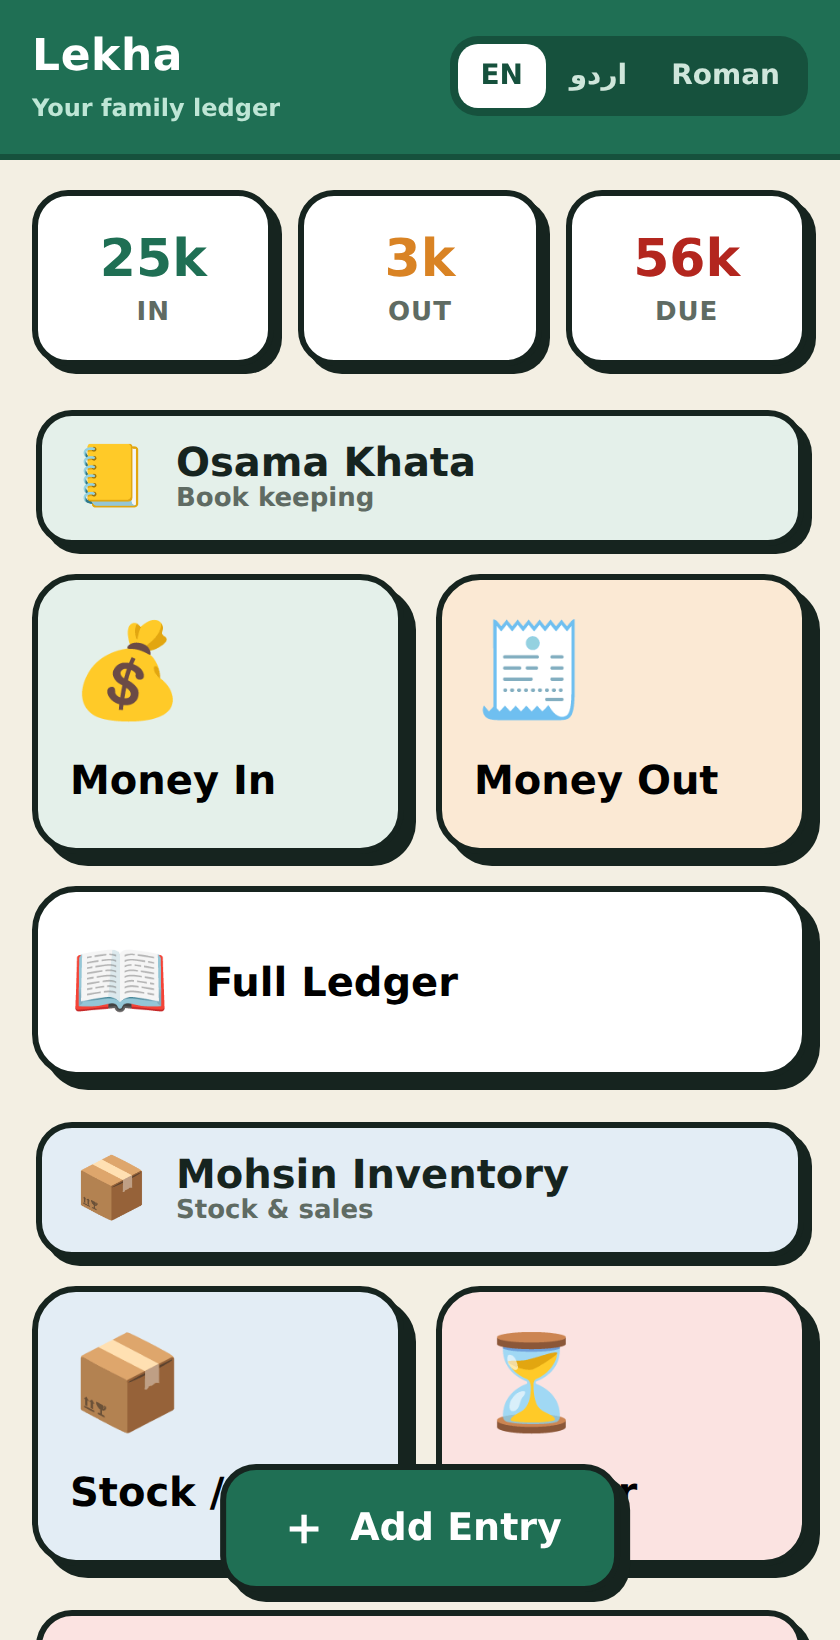
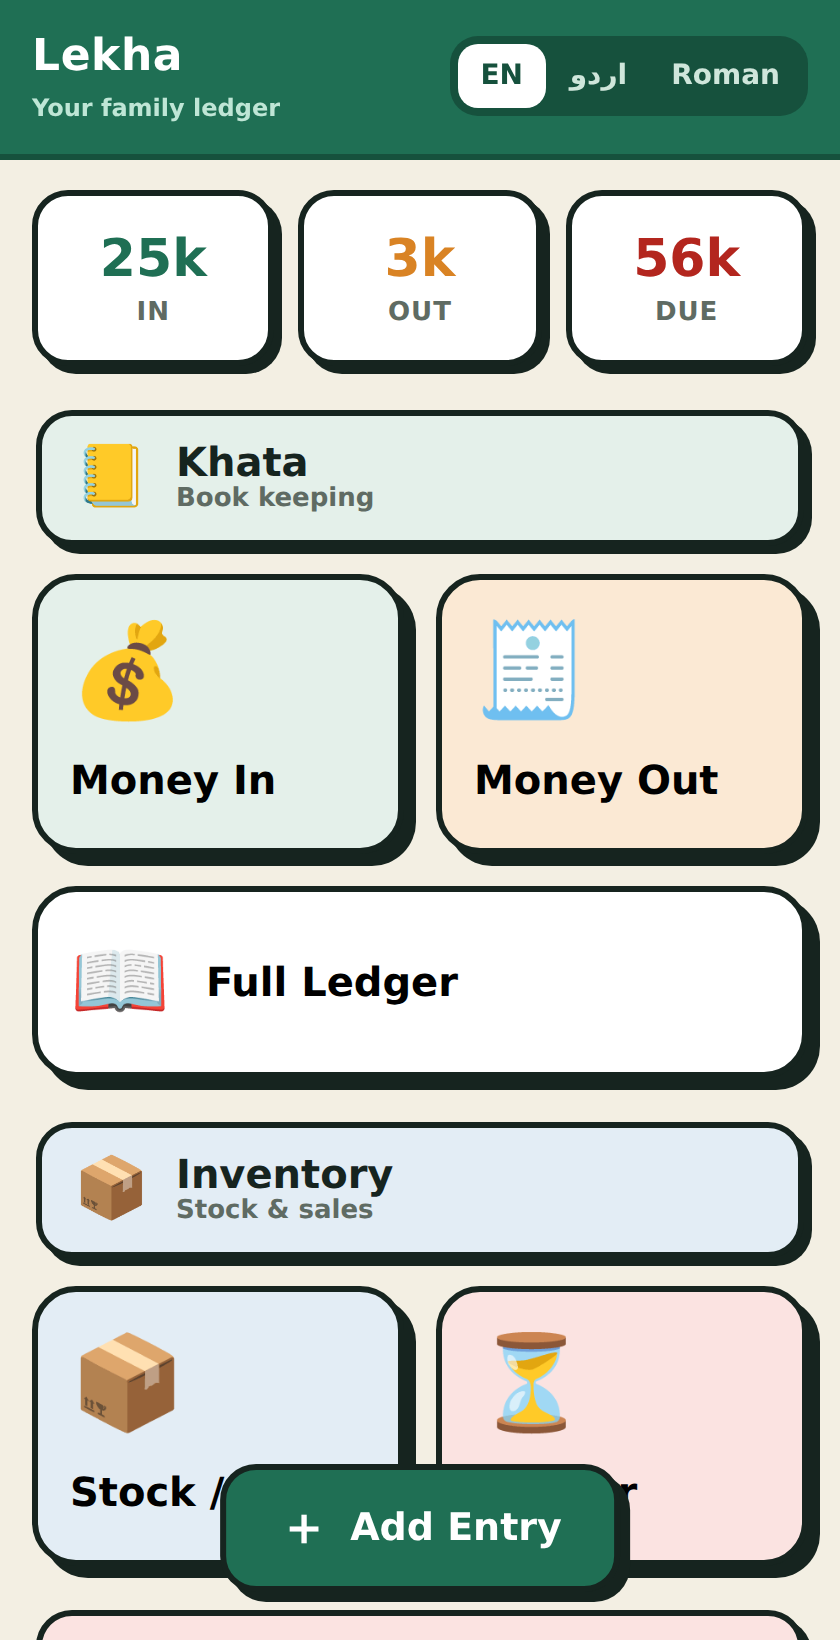
Name removed

Changed region(s): [[0.2167, 0.6841, 0.681, 0.7463], [0.2167, 0.2488, 0.5571, 0.311]]

diff --git a/index.html b/index.html
@@ -214,10 +214,10 @@
       <div class="sum-card due"><div class="big" id="sumDue">0</div><div class="cap" data-t="due">Due</div></div>
     </div>
 
-    <!-- SECTION 1: Osama Khata (book keeping) -->
+    <!-- SECTION 1: Khata (book keeping) -->
     <div class="sec-band khata">
       <span class="sec-ico">📒</span>
-      <div class="sec-name"><span data-t="sec_khata">Osama Khata</span>
+      <div class="sec-name"><span data-t="sec_khata">Khata</span>
         <small data-t="sec_khata_sub">Book keeping</small></div>
     </div>
     <div class="tiles">
@@ -232,10 +232,10 @@
       </button>
     </div>
 
-    <!-- SECTION 2: Mohsin Inventory (stock & sales) -->
+    <!-- SECTION 2: Inventory (stock & sales) -->
     <div class="sec-band inv">
       <span class="sec-ico">📦</span>
-      <div class="sec-name"><span data-t="sec_inv">Mohsin Inventory</span>
+      <div class="sec-name"><span data-t="sec_inv">Inventory</span>
         <small data-t="sec_inv_sub">Stock & sales</small></div>
     </div>
     <div class="tiles">
@@ -321,8 +321,8 @@ const T = {
     empty_due:"Nothing pending. All paid up.",
     late:"OVERDUE", soon:"DUE SOON", offline:"Saved on phone, will sync",
     online:"Connected", syncing:"Saving...",
-    sec_khata:"Osama Khata", sec_khata_sub:"Book keeping",
-    sec_inv:"Mohsin Inventory", sec_inv_sub:"Stock & sales",
+    sec_khata:"Khata", sec_khata_sub:"Book keeping",
+    sec_inv:"Inventory", sec_inv_sub:"Stock & sales",
     sec_ahmed:"Ahmed", sec_ahmed_sub:"Reminds you about dues & updates" },
   ur:{ brand:"لیکھا", tag:"آپ کے خاندان کا کھاتہ", in:"آمدنی", out:"خرچہ", due:"باقی",
     t_income:"رقم وصول", t_expense:"رقم خرچ", t_stock:"اسٹاک / فروخت",
@@ -338,8 +338,8 @@ const T = {
     empty_due:"کچھ باقی نہیں۔ سب ادا ہوگیا۔",
     late:"میعاد گزر گئی", soon:"جلد واجب", offline:"فون پر محفوظ، بعد میں سنک ہوگا",
     online:"منسلک", syncing:"محفوظ ہو رہا ہے...",
-    sec_khata:"اسامہ کھاتہ", sec_khata_sub:"حساب کتاب",
-    sec_inv:"محسن انوینٹری", sec_inv_sub:"اسٹاک اور فروخت",
+    sec_khata:"کھاتہ", sec_khata_sub:"حساب کتاب",
+    sec_inv:"انوینٹری", sec_inv_sub:"اسٹاک اور فروخت",
     sec_ahmed:"احمد", sec_ahmed_sub:"واجبات اور اپڈیٹس کی یاد دہانی" },
   ru:{ brand:"Lekha", tag:"Aap ke ghar ka khaata", in:"Aamdani", out:"Kharcha", due:"Baqi",
     t_income:"Raqam Wasool", t_expense:"Raqam Kharch", t_stock:"Stock / Farokht",
@@ -355,8 +355,8 @@ const T = {
     empty_due:"Kuch baqi nahi. Sab ada hogaya.",
     late:"Miyaad guzar gayi", soon:"Jald wajib", offline:"Phone par save, baad mein sync",
     online:"Connected", syncing:"Save ho raha hai...",
-    sec_khata:"Osama Khata", sec_khata_sub:"Hisaab kitaab",
-    sec_inv:"Mohsin Inventory", sec_inv_sub:"Stock aur farokht",
+    sec_khata:"Khata", sec_khata_sub:"Hisaab kitaab",
+    sec_inv:"Inventory", sec_inv_sub:"Stock aur farokht",
     sec_ahmed:"Ahmed", sec_ahmed_sub:"Wajibat aur updates yaad dilata hai" }
 };
 

diff --git a/README.md b/README.md
@@ -16,8 +16,8 @@ No login. No sign-up. No monthly cost.
 
 Inside, the app is split into three named sections:
 
-- **Osama Khata** — book keeping (Money In, Money Out, Full Ledger)
-- **Mohsin Inventory** — stock and sales (Stock/Sale, Udhaar)
+- **Khata** — book keeping (Money In, Money Out, Full Ledger)
+- **Inventory** — stock and sales (Stock/Sale, Udhaar)
 - **Ahmed** — your reminder helper, who nudges you about money to collect
 
 ---